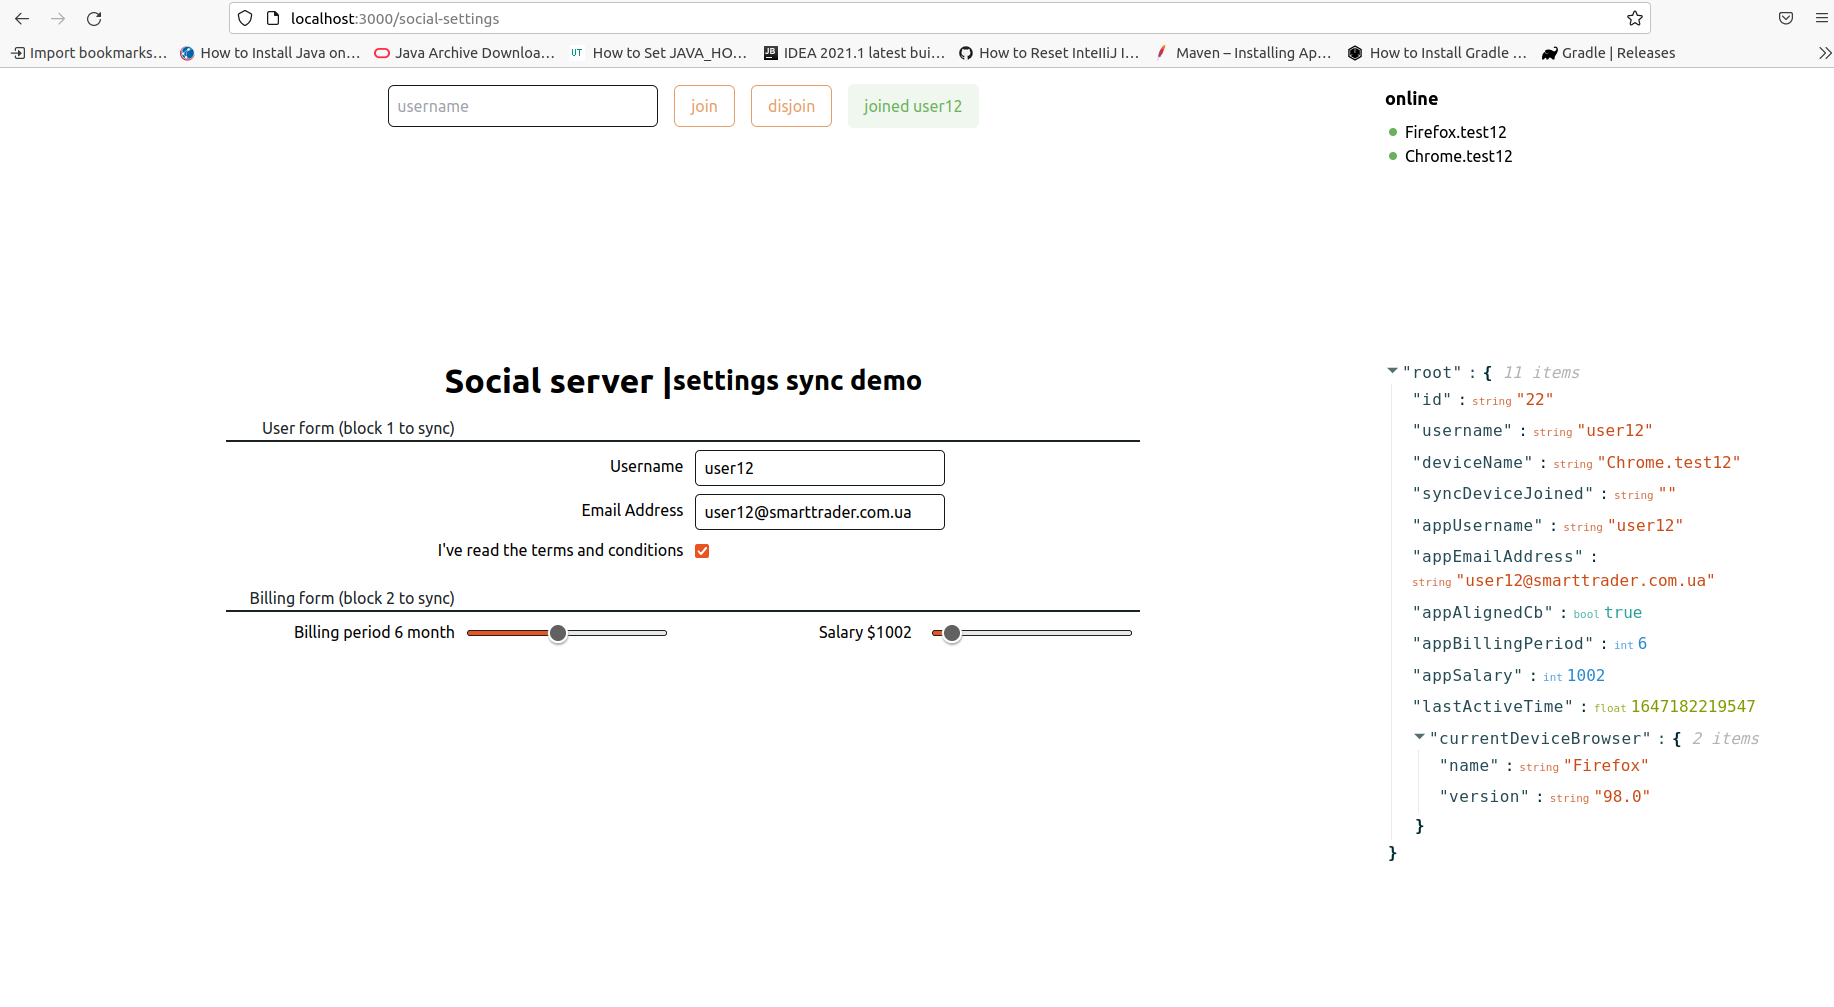
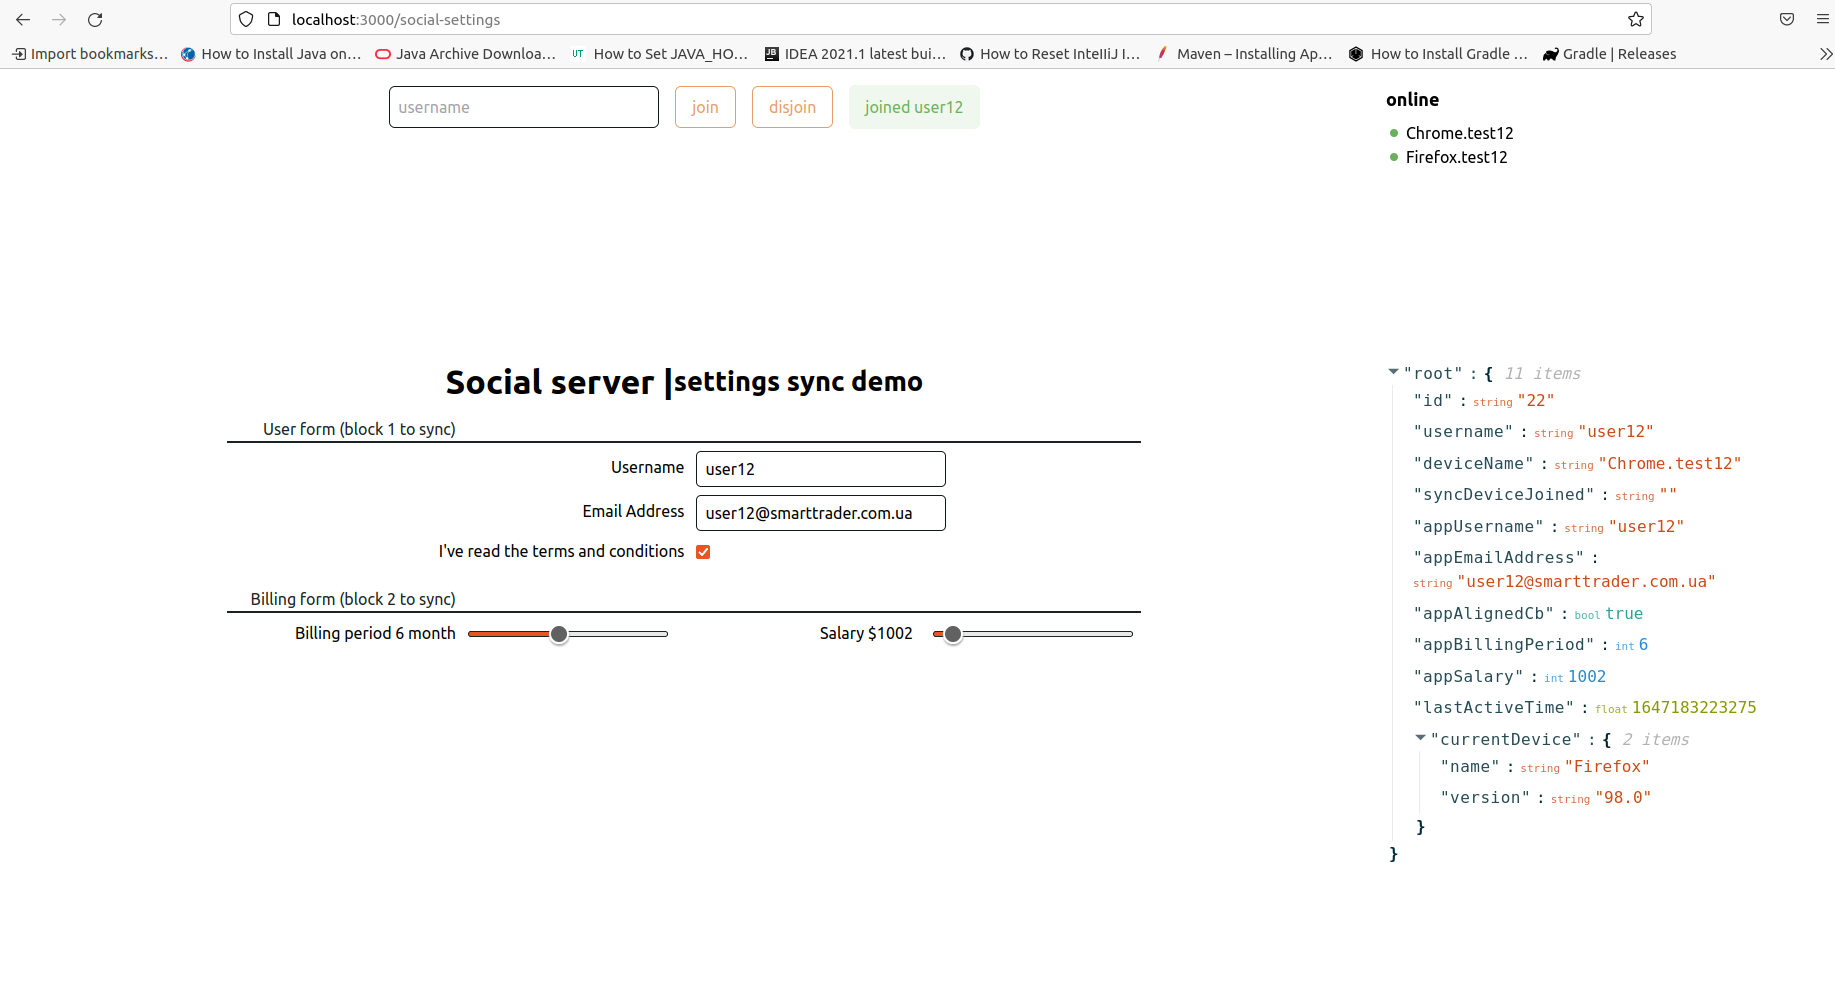
KYIV-dev | README

diff --git a/client/src/pages/social-settings/index.tsx b/client/src/pages/social-settings/index.tsx
@@ -61,7 +61,7 @@ export default function SocialSettings() {
       const something: Something = JSON.parse(messageEvent.data);
       something.lastActiveTime = new Date().getTime();
       const browser = Bowser.getParser(window.navigator.userAgent);
-      something.currentDeviceBrowser = {
+      something.currentDevice = {
           name: browser.getBrowserName(),
           version: browser.getBrowserVersion()
       };

diff --git a/client/src/types/something.ts b/client/src/types/something.ts
@@ -2,7 +2,7 @@ export type Something = { // TODO: init dynamic data
   id: number;
   deviceName: string;
   syncDeviceJoined: string;
-  currentDeviceBrowser: {};
+  currentDevice: {};
   lastActiveTime: number;
   type: 'recv' | 'self';
   appUsername: string;
